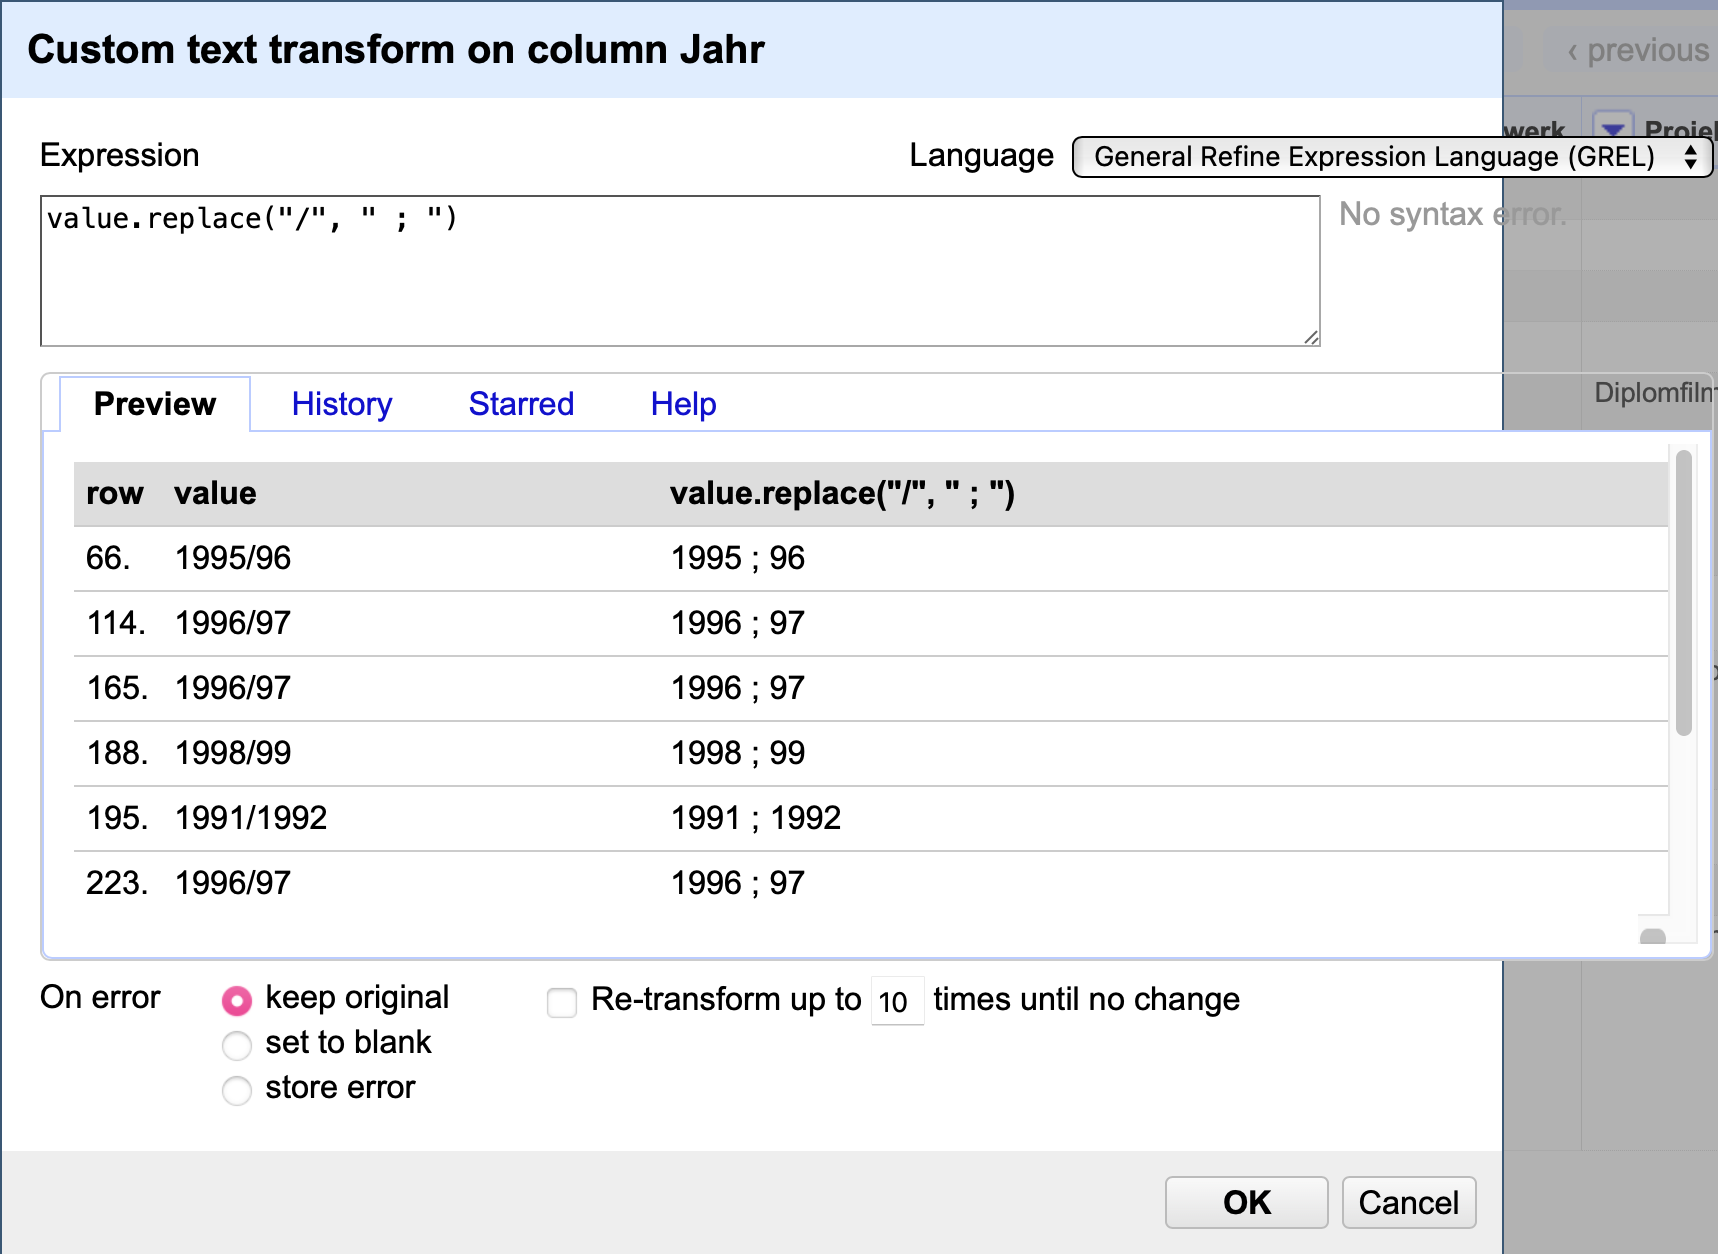
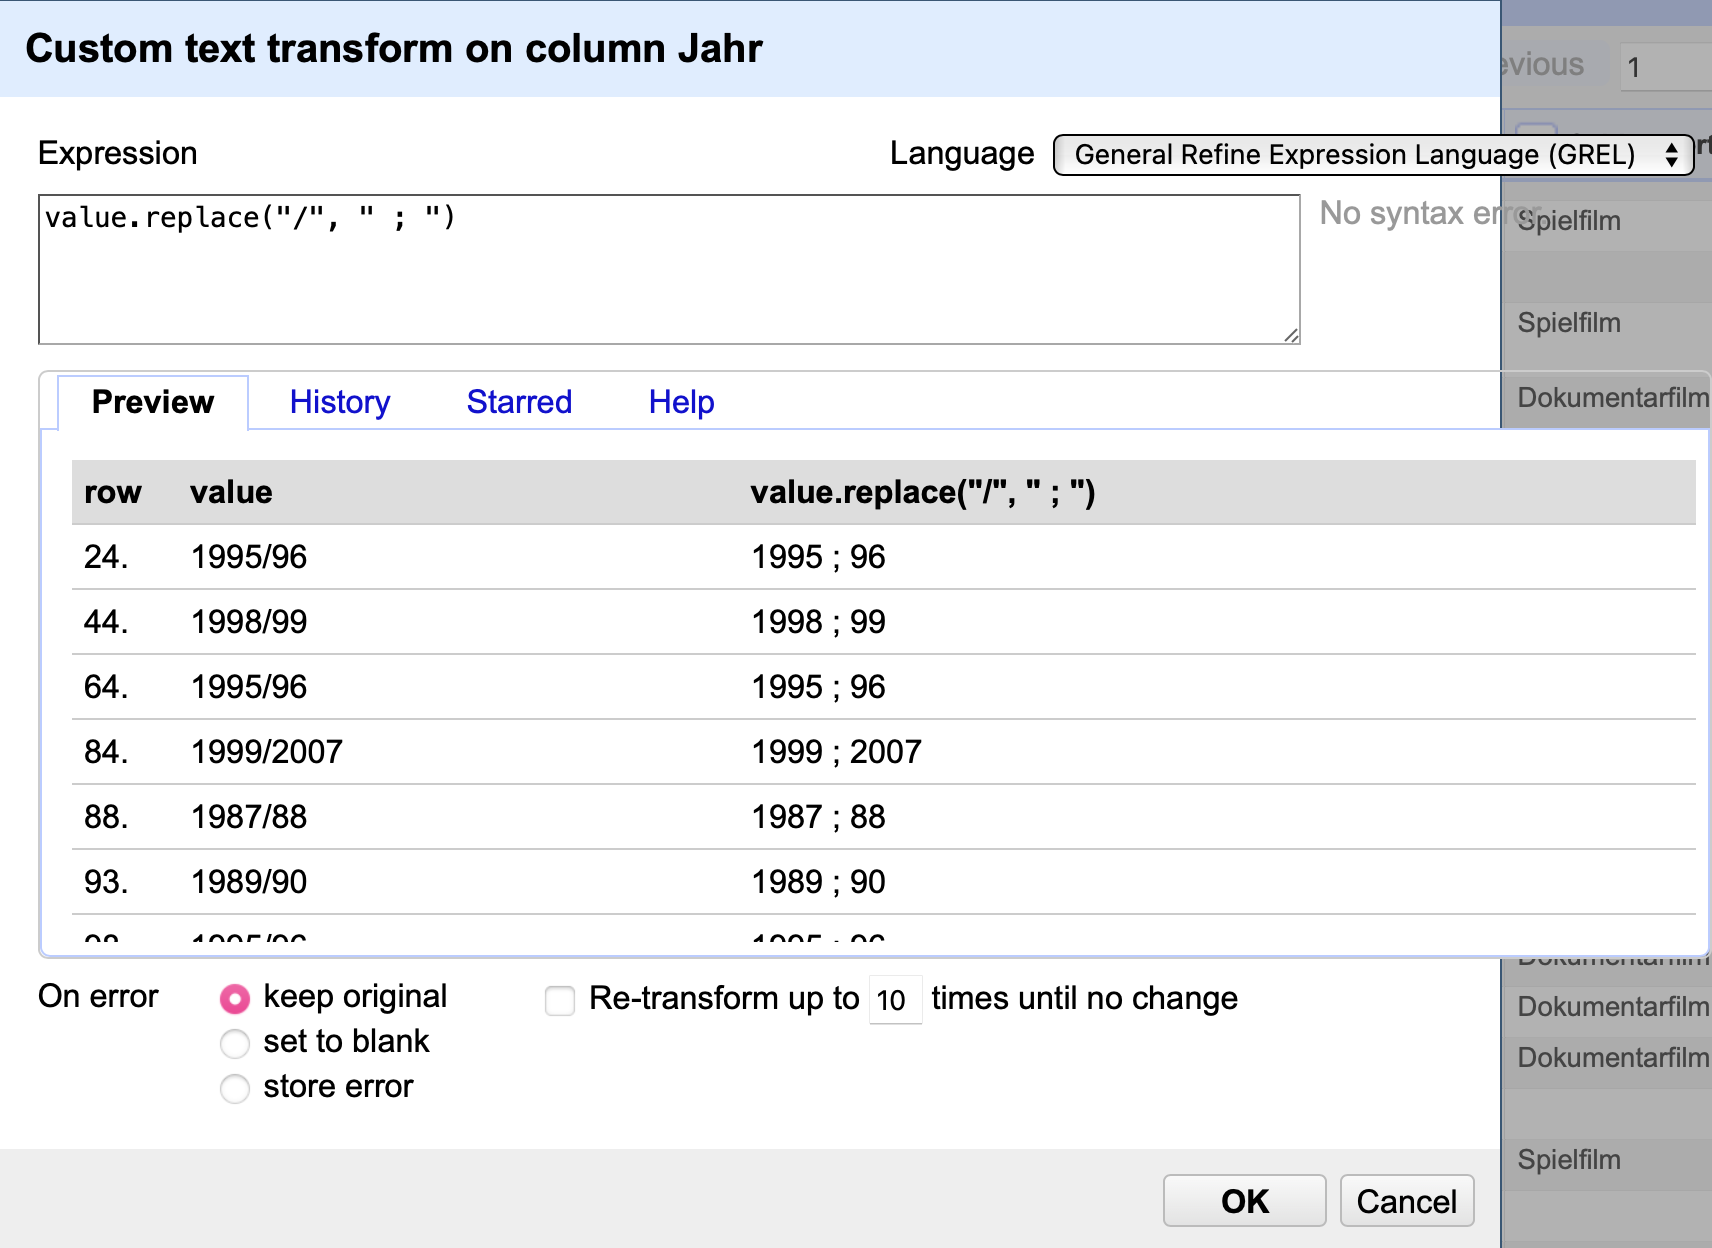
update asset, update .mds

diff --git a/bereinigung/openRefine/5.1_jahre.md b/bereinigung/openRefine/5.1_jahre.md
@@ -338,7 +338,14 @@ Wie können diese Einträge in Zahlen umgewandelt werden, ohne die *ca.* Angabe 
 Eine interessante Methode für dieses Ziel ist <a href="https://openrefine.org/docs/manual/grelfunctions#containss-sub-or-p" class="external-link" target="_blank">`contains`</a>.
 `contains` gibt darüber Auskunft, ob ein Eintrag das Argument der Methode enthält oder nicht. Wird der Code `value.contains("Hallo")` auf den Eintrag *"Hallo Welt"* angewendet, ist das Ergebnis `true`, bei dem Eintrag *"Welt"* hingegen `false`. `true` und `false` sind dabei nicht einfache Texte, sondern *Boolean* Werte. Boolean, benannt nach George Boole, ist der grundlegende Datentyp in der Programmierung – ein Wert kann entweder *wahr* oder *falsch* sein, `true` oder `false`.
 
-Wird `value.contains("ca.")` im *Transfrom*-Menü angewandt, werden alle Einträge durch `true` oder `false` ersetzt.
+Wird `value.contains("ca.")` im *Transform*-Menü angewandt, werden alle Einträge durch `true` oder `false` ersetzt.
+
+````{margin} 
+```{admonition} Hinweis
+:class: hinweis
+Ggf. werden bei Ihnen nur eine kleine Auswahl an Einträgen angezeigt. Im Hauptfenster über den Einträgen können Sie die Anzahl an angezeigten Einträgen anpassen (siehe [Layout OpenRefine](./3_sichtung.md#layout-openrefine)). Diese Einstellung wird auch für das *Preview*-Fenster im *Transform*-Menü übernommen.
+```
+````
 
 ```{figure} ../../assets/bereinigung/openRefine/jahr/transform_6.png
 ---

diff --git a/bereinigung/openRefine/3_sichtung.md b/bereinigung/openRefine/3_sichtung.md
@@ -224,6 +224,8 @@ alt: Die Transformation To Number
 Die Transformation *To Number*
 ```
 
+Auf die Spalte *Jahr* in ihrer aktuellen Form hat diese Transformation allerdings keine Wirkung. Die Einträge mit nicht-numerischen Zeichen wie Schrägstrichen werden weiterhin nicht als Zahlen erkannt, während jene Einträge, die nur aus Zahlen bestehen, bereits als solche während des Import des Datensatzes identifiziert wurden. 
+
 ### Text filter
 Mit einem *Text Filter* können Sie Spalten nach einem Text durchsuchen und den Datensatz nach den Ergebnissen filtern. Der *Text Filter* findet sich im Dropdown-Menü der Spalten unter den *Facets*:
 
